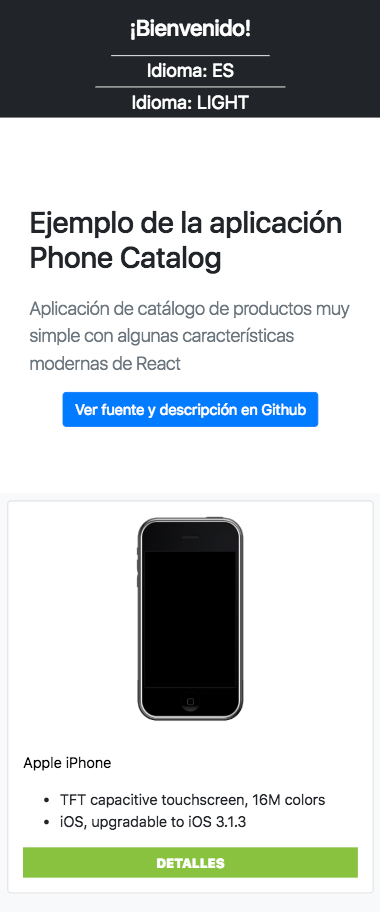
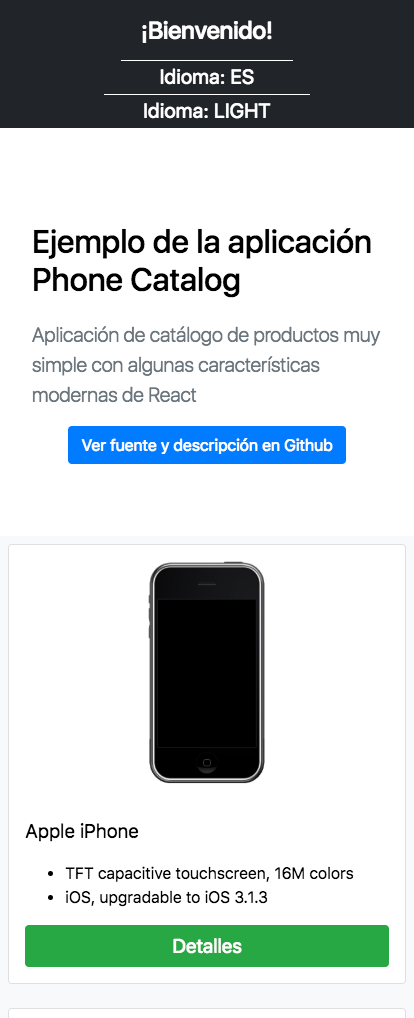
update dark theme and center <Spinner />

diff --git a/client/src/common-styles/abstracts/color.vars.css b/client/src/common-styles/abstracts/color.vars.css
@@ -1,6 +1,4 @@
 :root {
-    --details-button-bg-color: #88C23F;
-    --details-button-color: white;
     --main-bg-color: #f8f9fa;
 }
 
@@ -9,25 +7,27 @@
     --app-menu-text-color: white;
 
     --app-jumbotron-bg-color: white;
+    --app-jumbotron-color: black;
 
     --phone-card-bg-color: white;
-    --phone-card-name-color: black;
+    --phone-card-color: black;
 
     --modal-bg-color: white;
     --modal-color: black;
 }
 
 .dark-theme {
-    --main-bg-color: black;
+    --main-bg-color: #3C4556;
 
     --app-menu-bg-color: white;
     --app-menu-text-color: black;
 
-    --app-jumbotron-bg-color: black;
+    --app-jumbotron-bg-color: #3C4556;
+    --app-jumbotron-color: white;
 
-    --phone-card-bg-color: black;
-    --phone-card-name-color: white;
+    --phone-card-bg-color: #282A36;
+    --phone-card-color: white;
 
-    --modal-bg-color: black;
+    --modal-bg-color: #282A36;
     --modal-color: white
 }

diff --git a/client/src/components/presentional/DetailsButtonComponent/DetailsButtonComponent.jsx b/client/src/components/presentional/DetailsButtonComponent/DetailsButtonComponent.jsx
@@ -1,13 +1,14 @@
 import React from 'react';
 import PropTypes from 'prop-types';
+import { Button } from 'reactstrap';
 import { FormattedMessage } from 'react-intl';
 
 import './DetailsButtonComponent.css';
 
 const DetailsButtonComponent = ({ onClick }) => (
-  <button className="details-button" onClick={onClick}>
+  <Button color="success" className="details-button" onClick={onClick}>
     <FormattedMessage id="Buttons.detailsButtonCaption" />
-  </button>
+  </Button>
 );
 
 DetailsButtonComponent.propTypes = {

diff --git a/client/src/components/presentional/DetailsButtonComponent/DetailsButtonComponent.css b/client/src/components/presentional/DetailsButtonComponent/DetailsButtonComponent.css
@@ -1,21 +1,10 @@
 .details-button {
-    background-color: var(--details-button-bg-color);
-    color: var(--details-button-color);
-
-    padding: 6px 12px;
-
-    font-size: 14px;
-    line-height: 1.42857;
-    text-transform: uppercase;
-    font-weight: 800;
-
-    border-radius: 0;
-    border: 1px solid transparent;
-
     text-decoration: none;
     cursor: pointer;
     text-align: center;
     vertical-align: middle;
+
+    font-size: 1.2em;
 
     transition: all .35s cubic-bezier(.25,.46,.45,.94);
 }

diff --git a/client/src/components/App.jsx b/client/src/components/App.jsx
@@ -16,7 +16,7 @@ class App extends PureComponent {
   render() {
     return (
       <ConnectedIntlProvider>
-        <div className="main-app light-theme">
+        <div className="main-app">
           <header>
             <AppMenuHeader />
           </header>

diff --git a/client/src/components/presentional/PhoneCardComponent/PhoneCardComponent.css b/client/src/components/presentional/PhoneCardComponent/PhoneCardComponent.css
@@ -25,5 +25,11 @@
 }
 
 .phone-card .phone-card__name {
-    color: var(--phone-card-name-color);
+    color: var(--phone-card-color);
+
+    font-size: 1.2em;
+}
+
+.phone-card  .phone-card__details {
+    color: var(--phone-card-color);
 }

diff --git a/client/src/components/presentional/Spinner/Spinner.css b/client/src/components/presentional/Spinner/Spinner.css
@@ -2,6 +2,8 @@
     position: fixed;
     top: 50%;
     left: 50%;
+    margin-top: -50px;
+    margin-left: -100px;
 }
 
 @keyframes lds-pacman-1 {

diff --git a/client/src/components/presentional/MenuButton/MenuButton.css b/client/src/components/presentional/MenuButton/MenuButton.css
@@ -14,7 +14,7 @@
 }
 
 .menu-button:hover{
-    text-decoration: underline;
+    opacity: 0.5;
 }
 
 @media only screen and (max-width: 480px) {

diff --git a/client/src/components/presentional/DescriptionJumbotron/DescriptionJumbotron.css b/client/src/components/presentional/DescriptionJumbotron/DescriptionJumbotron.css
@@ -7,4 +7,5 @@
     padding: 96px 32px;
 
     background-color: var(--app-jumbotron-bg-color);
+    color: var(--app-jumbotron-color);
 }
